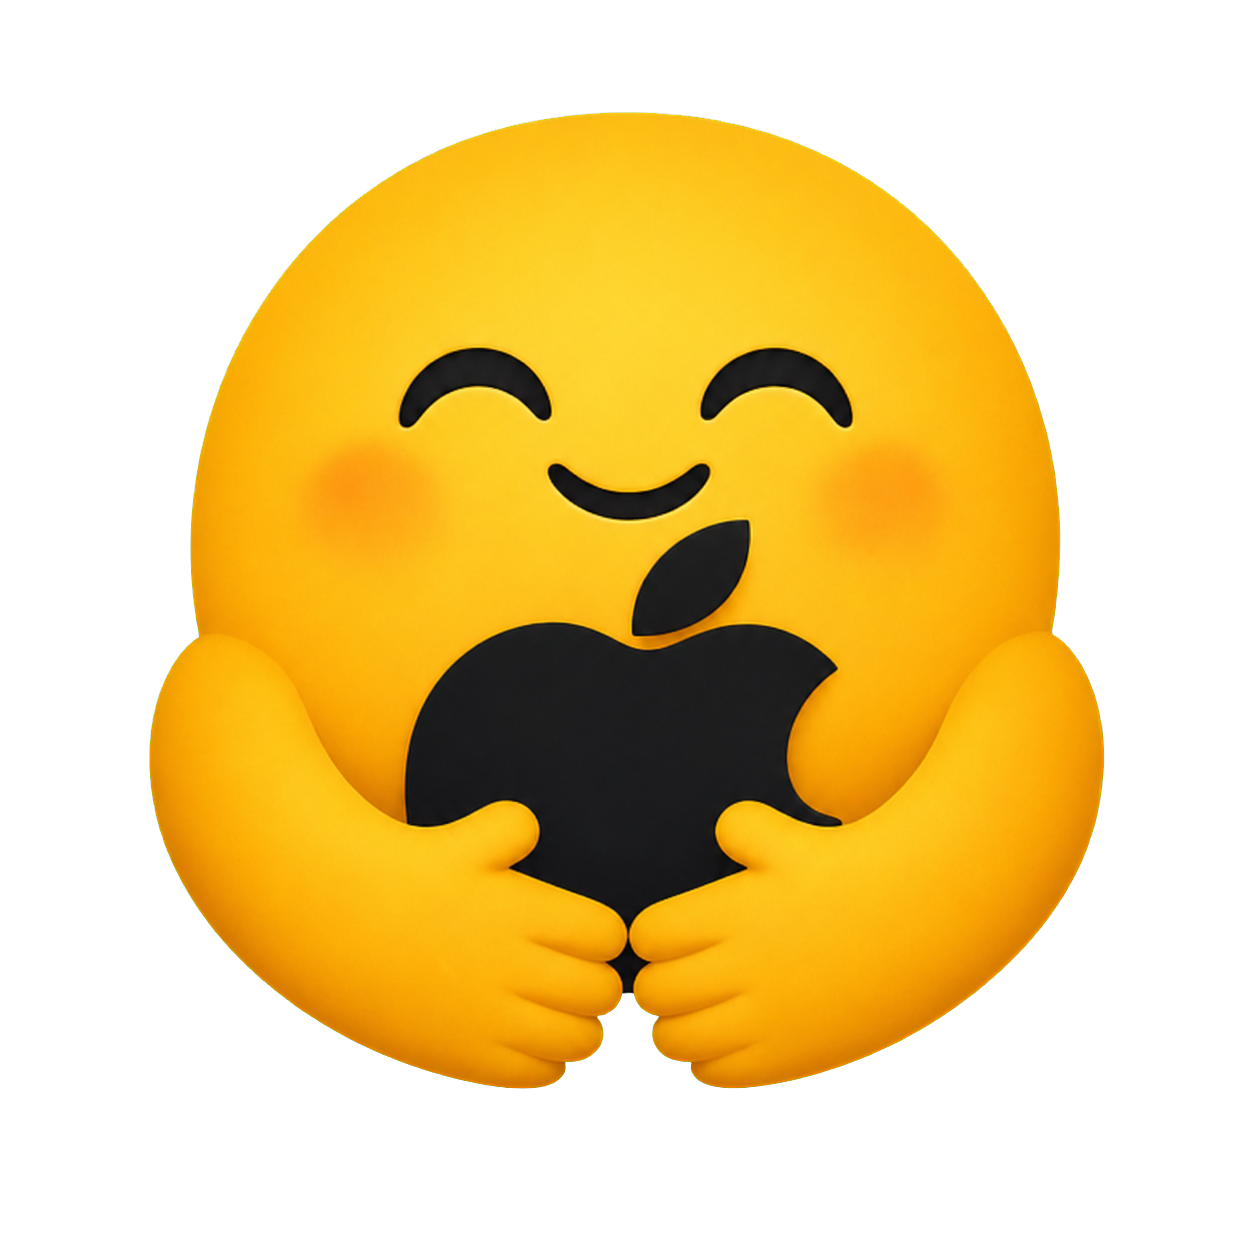
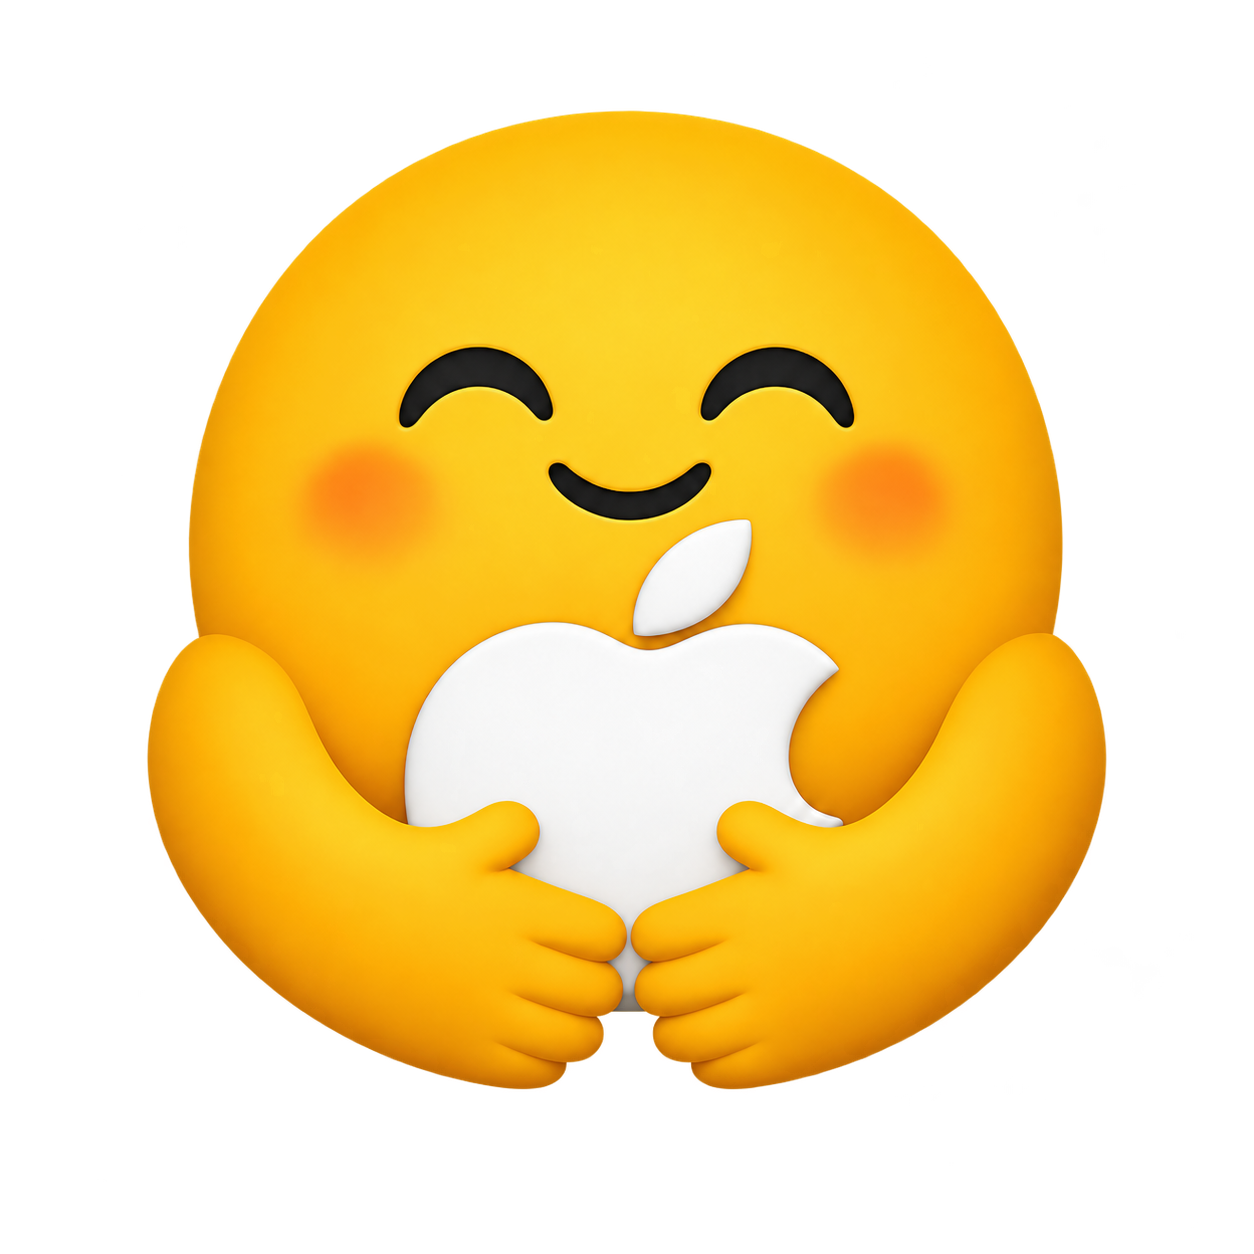
Refresh project branding and README demos

diff --git a/README.md b/README.md
@@ -2,80 +2,125 @@
   <img src="apps/web/frontend/public/hugging-mac-icon.png" alt="hugging-mac" width="144">
 </p>
 
-<h1 align="center">🤗 Hugging Mac 🍎</h1>
+<h1 align="center">Hugging Mac</h1>
 
 <p align="center">
-  <strong>Suck every bit of performance out of your Mac. Run all kinds of AI models locally.</strong>
+  <strong>Unleash the power of your Mac. Run AI models and build AI applications locally.</strong>
 </p>
 
-> **You are wasting your Mac's performance.** Hugging Mac runs AI models locally
-> on Apple Silicon and pushes your machine hard—GPU, Neural Engine, and every
-> available core.
+Hugging Mac is built to make full use of your Mac’s powerful computing resources—including its CPU, GPU, and Apple Neural Engine. It provides a unified local platform for running computer vision, speech and audio, large language, and multimodal models on Apple Silicon.
 
-Run vision, speech, language, and multimodal models on your Mac. Build useful
-and strange local AI apps: a Digital Human, live transcription, camera vision,
-pose-controlled games, and whatever comes next.
+Use the capabilities of these models to create useful, creative, and playful **_applications_**, **_games_**, **_agents_**, **_services_**, and entirely new local AI experiences. Your Mac keeps your data private and does all the work.
 
-**Your data stays local. Your Mac does the work.**
+## Models
 
-> Hugging Mac is in active early development. YOLOv8 detection, pose estimation,
-> instance segmentation, the Yolo Pose Follow game, Audio8-ASR transcription,
-> SenseVoiceSmall speech understanding, and the Digital Human experience are
-> available today. More models, apps, and neural games are on the way.
+Hugging Mac currently integrates 16 model families across vision, speech,
+language, and multimodal intelligence. Each integration exposes a consistent
+local lifecycle while retaining the runtime choices that make sense for that
+model and Apple Silicon.
 
-## See it in action
+| Model                                            | Capability                             | Supported runtimes                 |
+| ------------------------------------------------ | -------------------------------------- | ---------------------------------- |
+| **Audio8-ASR 0.1B**                              | Speech transcription                   | PyTorch MPS, Core ML               |
+| **Audio8 TTS Preview**                           | Speech synthesis                       | PyTorch, MLX                       |
+| **DeepFilterNet3**                               | Speech enhancement                     | Core ML                            |
+| **Gemma 4**                                      | Chat                                   | MLX                                |
+| **Kokoro 82M v1.0**                              | Speech synthesis                       | PyTorch MPS, Core ML               |
+| **MediaPipe Hand Detection**                     | Hand detection and tracking            | ONNX Runtime, Core ML              |
+| **Nemotron 3.5 ASR Streaming Multilingual 0.6B** | Streaming speech transcription         | Core ML                            |
+| **Qwen3.5**                                      | Chat and vision-language generation    | MLX                                |
+| **Qwen3-ASR**                                    | Speech transcription                   | Core ML                            |
+| **Qwen3-TTS**                                    | Speech synthesis                       | MLX, Core ML                       |
+| **RetinaFace MobileNet0.25**                     | Face detection                         | PyTorch MPS, Core ML               |
+| **SenseVoiceSmall**                              | Speech transcription and understanding | PyTorch MPS, Core ML               |
+| **Silero VAD**                                   | Voice activity detection               | Core ML, ONNX Runtime              |
+| **Ultralytics YOLOv8**                           | Object detection                       | PyTorch MPS, Core ML, ONNX Runtime |
+| **Ultralytics YOLOv8 Pose**                      | Pose estimation                        | PyTorch MPS, Core ML, ONNX Runtime |
+| **Ultralytics YOLOv8 Seg**                       | Instance segmentation                  | PyTorch MPS, Core ML, ONNX Runtime |
 
-### Digital Human 🎙
+Visit the [Hugging Mac organization on Hugging Face](https://huggingface.co/hugging-mac)
+to find converted weights and Apple-oriented model artifacts. Model contributions
+are welcome—even if you only help convert an existing model to Core ML, add an
+MLX variant, benchmark a runtime, reduce memory use, or improve performance on
+Apple architectures.
 
-A fully local, camera-aware voice conversation on Apple Silicon. Digital Human
-combines Audio8-ASR, Qwen 3.5 vision-language generation, and Kokoro speech
-to listen, respond to the current camera frame, and speak back with low latency.
+## Applications
 
-[![Watch the Digital Human demo](https://img.youtube.com/vi/YPr6fYPnCMQ/hqdefault.jpg)](https://youtu.be/YPr6fYPnCMQ)
+The Studio turns those model integrations into complete local workflows:
 
-Watch the [Digital Human video chat demo](https://youtu.be/YPr6fYPnCMQ) on YouTube.
+- **Object Detection** — detect and compare objects in images, videos, and live
+  camera feeds with YOLOv8.
+- **Pose Estimation** — run body pose, face, and hand landmark models together
+  for real-time human understanding.
+- **Instance Segmentation** — separate subjects from images, videos, or a camera
+  feed with colored masks and contours.
+- **Live Transcription** — compare multiple ASR models with optional voice
+  activity detection and speech enhancement in one streaming pipeline.
+- **Text to Speech** — synthesize and compare local voices across Audio8 TTS,
+  Kokoro, and Qwen3-TTS.
+- **Local Chat** — talk privately with Qwen3.5 or Gemma 4, with optional camera
+  understanding, speech input, and spoken responses. Watch the
+  [Digital Human demo](https://youtu.be/YPr6fYPnCMQ).
 
-### Yolo Pose Follow 🕺
+We welcome application contributions of every size: a focused demo, a polished
+end-to-end experience, a new model pipeline, or an improvement to an existing
+workflow. Combine the available models in ways we have not imagined yet.
 
-Your body becomes the controller. A local YOLOv8 Pose model follows the camera,
-draws your skeleton, and compares it with a target pose before the clock runs out.
-No cloud inference and no video upload—just you, your Mac, and a neural network.
+## Neural games
 
-![Yolo Pose Follow running locally on Hugging Mac](imgs/yollo-pose-follow.png)
+No controller. No cloud video upload. These games turn live model output into
+real-time input and run the full interaction loop on your Mac.
 
-This is the first entry in the Hugging Mac showcase. More experiments will be
-added here as the model, app, and game catalog grows.
+Click a poster to watch the demo.
 
-## What can you explore?
+| Demo | Game | Description |
+| :---: | --- | --- |
+| <a href="https://hugging-mac-readme.static.hf.space/videos/pose-follow.mp4"><img src="imgs/follow.png" alt="Watch the Yolo Pose Follow demo" width="220"></a> | **Yolo Pose Follow** | Match body poses and hand gestures before the clock runs out. YOLOv8 Pose tracks your skeleton locally and scores every target in real time. |
+| <a href="https://hugging-mac-readme.static.hf.space/videos/fruit-slice.mp4"><img src="imgs/fruit.png" alt="Watch the Yolo Fruit Slice demo" width="220"></a> | **Yolo Fruit Slice** | Turn both forearms into blades, slice fruit, avoid bombs, and build combos. Play with YOLOv8 Pose through the camera, or use the mouse for a quick test. |
+| <a href="https://hugging-mac-readme.static.hf.space/videos/palm-thunder.mp4"><img src="imgs/thunder.png" alt="Watch the Palm Thunder demo" width="220"></a> | **Palm Thunder** | Steer a vertical shooter with your palm, close your fist to trigger a screen bomb, and play solo or co-op with local MediaPipe hand tracking. |
 
-- 🔎 **Object detection** — compare YOLOv8 weight variants and detect objects in
-  images, videos, or a live camera.
-- 🕺 **Pose estimation** — visualize COCO-17 body keypoints and build interactions
-  driven by human movement.
-- 🎨 **Instance segmentation** — separate objects from the scene with colorful
-  masks and contours.
-- 🎙 **Live transcription** — use VAD and Audio8-ASR to turn ongoing speech into
-  local, sentence-by-sentence text.
-- 🎧 **Speech understanding** — use SenseVoiceSmall to recognize text, language,
-  emotion, and acoustic events in one local pass.
-- 🕹 **Neural games** — play Yolo Pose Follow and use model output as a real-time
-  game input.
-- 🧠 **Model engineering** — download weights, switch variants, manage instances,
-  convert formats, and observe how different runtimes use your Mac.
+Have an idea for an AI-native game? Contributions are welcome across game
+concepts, visual and audio assets, code, interaction design, stories, characters,
+levels, and scripts. Let us build playful games for the AI era together.
 
 ## Built for learning and building
 
-Hugging Mac is both a visual playground and an extensible development platform:
+Hugging Mac separates **what a model can do** from **how that model is
+implemented**. Each model package exposes one or more stable capability
+interfaces—such as object detection, pose estimation, transcription, speech
+synthesis, or chat—while keeping its weights, preprocessing, postprocessing,
+framework objects, and runtime-specific code private.
 
-- A standalone Python model SDK with consistent lifecycle and capability APIs
-- Multiple isolated instances and weight variants for the same model
-- Pluggable capabilities such as `detect`, `estimate_pose`, `segment`, and
-  `transcribe`
-- Runtime selection for PyTorch MPS, Core ML, ONNX Runtime, MLX, and future
-  Apple-friendly backends
-- Explicit model download, resource management, and format conversion
-- A FastAPI application layer and a responsive Vue 3 frontend
-- A foundation for demos, neural games, evaluation, training, and benchmarking
+Applications are registered independently through their own manifests. An App
+declares the models and capabilities it needs, then acquires those capabilities
+through the shared Model SDK at runtime. It can compose several models into a
+pipeline without depending on concrete model classes or knowing whether the work
+is performed by Core ML, MLX, PyTorch MPS, or ONNX Runtime.
+
+```mermaid
+flowchart TB
+    Experience["Interfaces and Applications<br/>Web Studio · CLI · Apps · Games · Services · Agents"]
+    Capability["Capability API<br/>Detect · Segment · Transcribe · Synthesize · Chat · ..."]
+    Models["Model Layer<br/>Independent model packages · instances · resources"]
+    Runtime["Runtime and EP<br/>Core ML · MLX · PyTorch MPS · ONNX Runtime<br/>CPU · GPU · ANE"]
+
+    Experience -->|compose capabilities| Capability
+    Capability -->|stable contracts| Models
+    Models -->|runtime adapters| Runtime
+```
+
+This capability-first architecture keeps both sides replaceable and composable:
+
+- A new model can implement an existing capability and immediately become
+  available to compatible Apps.
+- A model can support several runtimes without leaking runtime-specific APIs to
+  application code.
+- An App can combine vision, audio, language, and multimodal capabilities into a
+  single pipeline while remaining independent of model internals.
+- Model resources, instance lifecycle, runtime selection, reuse, and unloading
+  stay inside the SDK instead of being reimplemented by every App.
+- The standalone Python SDK can also be used from the Web Studio, a CLI, a
+  notebook, a service, or a future agent runtime.
 
 ## Requirements
 
@@ -110,10 +155,10 @@ npm run dev
 Open <http://127.0.0.1:5173/>. The API documentation is available at
 <http://127.0.0.1:8000/docs>.
 
-Open the Studio, choose a Neural App or Neural Game, prepare its model weights,
-and start experimenting. For example, download a YOLOv8 variant and run it with
-MPS, convert it to Core ML, speak into Audio8-ASR, or step in front of the camera
-and play Yolo Pose Follow.
+Open the Studio, prepare a model from the Models page, then choose an App or Game.
+For example, run YOLOv8 with MPS or Core ML, transcribe with one of four ASR
+families, chat with a local LLM, synthesize speech, or step in front of the camera
+and play one of the three neural games.
 
 ## Documentation
 
